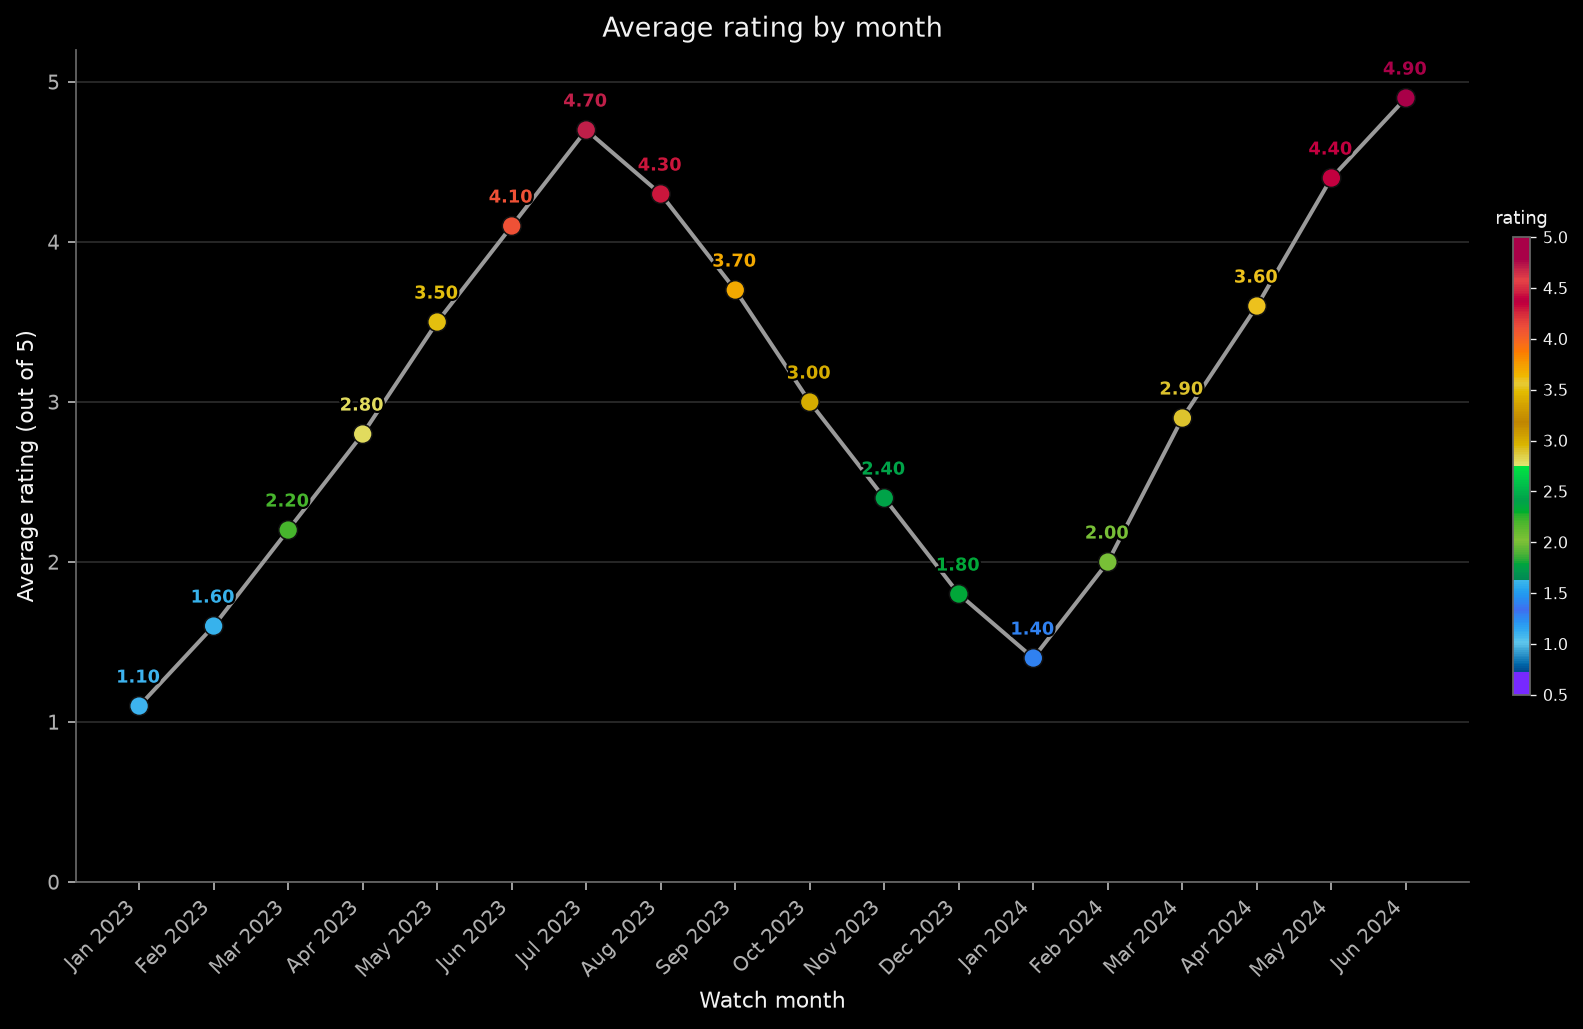
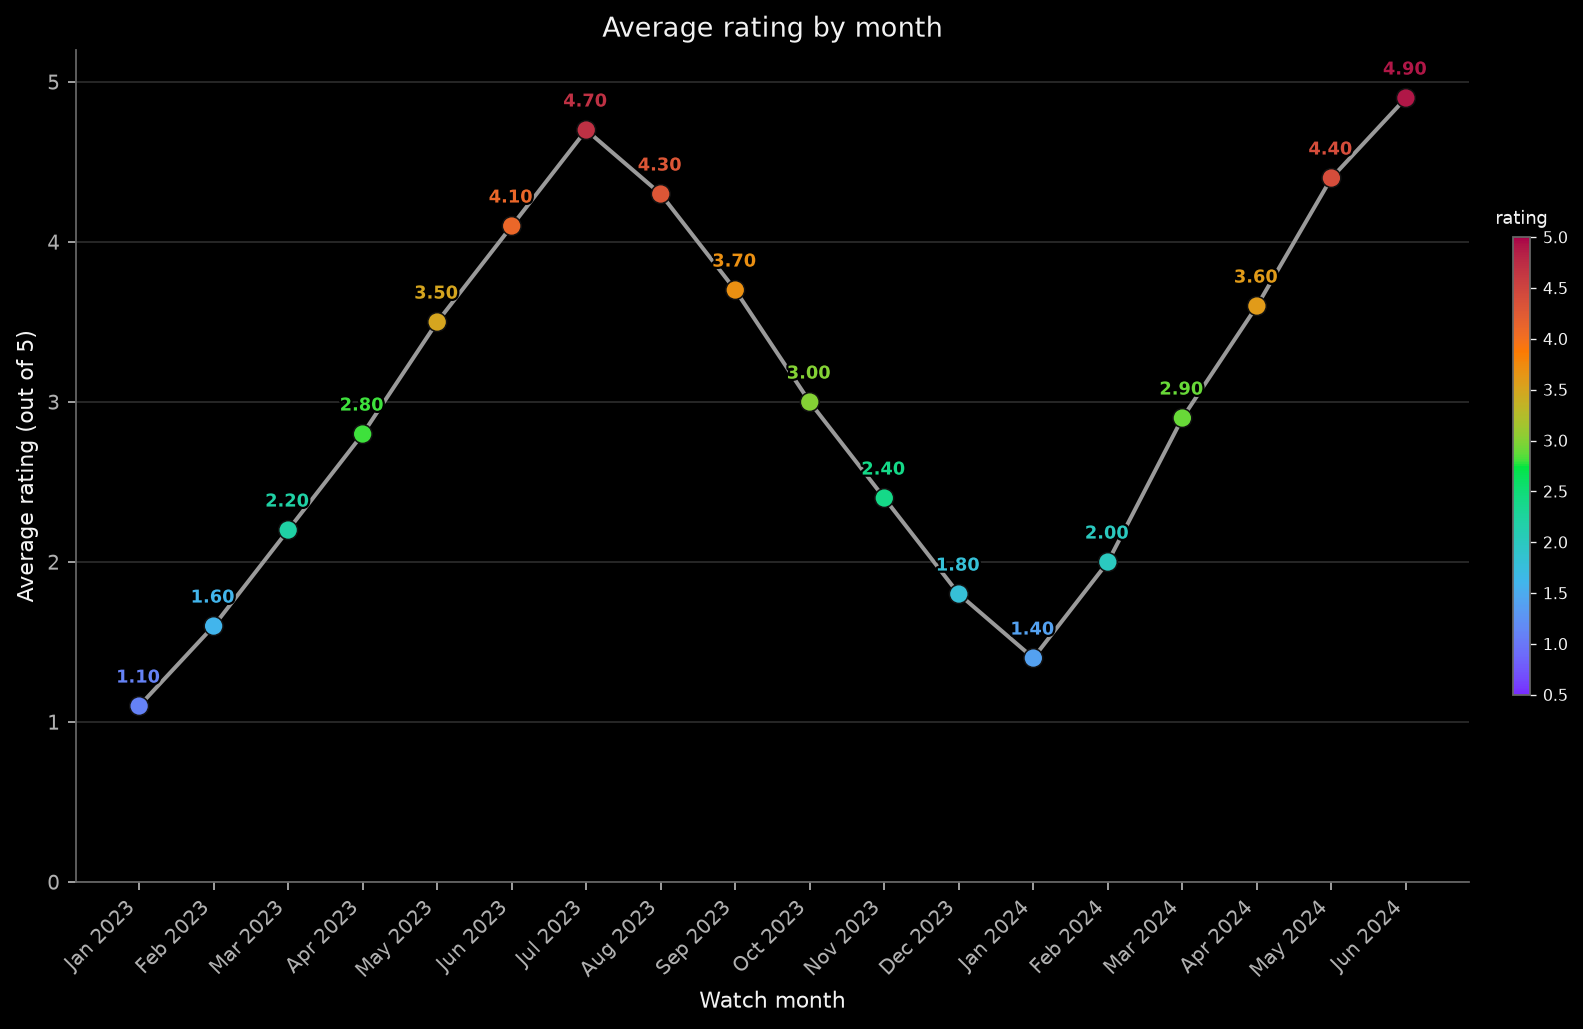
Replace the hue-band palette with a straight OKLab blend.
palette_color is piecewise-linear in OKLab between purple #7729FF, the three logo colors, and burgundy #A90048. README charts are regenerated on that blend. Discrete ranks stay as they are.

diff --git a/scripts/letterboxd_palette.py b/scripts/letterboxd_palette.py
@@ -7,15 +7,12 @@ fixed anchors (median sRGB of each non-overlapping interior):
 - 0.50 green ``#03E53E``
 - 0.75 orange ``#FC7A02``
 
-``palette_color`` is piecewise-linear in OKLab lightness, chroma, and hue.
-``t < 0.05`` stays the purple end (``#7729FF``) and ``t ≥ 0.95`` stays the
-burgundy end (``#A90048``), both the three-step chords past the logo colors.
-Between those holds, each hue family is its own polyline of ``(L, C, h)``
-stops: blues on ``[0.05, 0.25]`` ending at logo blue, greens on
-``(0.25, 0.50]`` ending at logo green, yellows on ``(0.50, 0.75]`` ending
-at logo orange, and a bent red polyline on ``(0.75, 0.95)`` that is not the
-straight orange–burgundy chord. The three logo knots return the measured
-bytes exactly.
+``palette_color`` is piecewise-linear in OKLab ``(L, a, b)`` between five
+knots: purple ``#7729FF`` at 0, the three logo colors at 0.25 / 0.50 / 0.75,
+and burgundy ``#A90048`` at 1. The ends are the three-step chords past the
+logo colors. There is no hold, hue band, or ease: each segment is the
+straight OKLab line, so lightness does not jump at a knot. The logo knots
+and the two ends return their bytes exactly.
 
 Ordered series (earliest or lowest first) bend quartile ranks with a
 piecewise quadratic so the logo knots stay put. See ``categorical_positions``.
@@ -56,37 +53,6 @@ LOGO_ORANGE_HEX = "#FC7A02"
 # (one step is Δt = 0.25, the old ends ``2B−G`` / ``2O−G``). Three steps
 # is where the gamut-mapped chord reads as purple and burgundy.
 OUTER_CHORD_STEPS = 3.0
-
-# Hue families. Purple is only below the first cut; burgundy is only from
-# the last cut up. The logo knots are the right-hand end of the blue, green,
-# and yellow polylines.
-PURPLE_BELOW = 0.05
-BURGUNDY_FROM = 0.95
-
-# Interior stops (fraction of the band, L, C, hue degrees). The band's final
-# stop is the logo color, or burgundy for the red band. Hue is OKLab
-# atan2(b, a), in degrees.
-_BLUE_STOPS = (
-    (0.00, 0.40, 0.14, -105.0),
-    (0.32, 0.78, 0.11, -135.0),
-    (0.68, 0.58, 0.20, -95.0),
-)
-_GREEN_STOPS = (
-    (0.00, 0.55, 0.20, 158.0),
-    (0.35, 0.74, 0.18, 132.0),
-    (0.70, 0.62, 0.22, 150.0),
-)
-_YELLOW_STOPS = (
-    (0.00, 0.90, 0.14, 110.0),
-    (0.38, 0.66, 0.19, 78.0),
-    (0.72, 0.84, 0.16, 98.0),
-)
-# Detours off the orange→burgundy chord, so the reds are not one ramp.
-_RED_STOPS = (
-    (0.28, 0.64, 0.20, 30.0),
-    (0.55, 0.50, 0.21, 14.0),
-    (0.78, 0.62, 0.20, 24.0),
-)
 
 # Björn Ottosson, OKLab (https://bottosson.github.io/posts/oklab/).
 _M1 = (
@@ -197,58 +163,6 @@ def _chord_end(
     return tuple(anchor[i] + steps * (anchor[i] - green[i]) for i in range(3))
 
 
-def _polar(lab: tuple[float, float, float]) -> tuple[float, float, float]:
-    lightness, a, b = lab
-    return (lightness, math.hypot(a, b), math.atan2(b, a))
-
-
-def _srgb_from_lch(lightness: float, chroma: float, hue: float) -> tuple[float, float, float]:
-    return oklab_to_srgb(lightness, chroma * math.cos(hue), chroma * math.sin(hue))
-
-
-def _mix_lch(
-    left: tuple[float, float, float],
-    right: tuple[float, float, float],
-    u: float,
-) -> tuple[float, float, float]:
-    """Straight line in OKLab L, C, and hue (hue in radians, not wrapped)."""
-    return _srgb_from_lch(
-        left[0] + u * (right[0] - left[0]),
-        left[1] + u * (right[1] - left[1]),
-        left[2] + u * (right[2] - left[2]),
-    )
-
-
-def _band_color(
-    stops: tuple[tuple[float, float, float, float], ...],
-    end: tuple[float, float, float],
-    u: float,
-    start: tuple[float, float, float] | None = None,
-) -> tuple[float, float, float]:
-    """Polyline through ``stops`` (fraction, L, C, hue degrees), ending at ``end``.
-
-    ``start`` replaces the first stop's LCh when the band begins on a logo
-    color (the red band starts at orange). Other bands pass ``start=None``
-    and use the first stop as written.
-    """
-    points: list[tuple[float, tuple[float, float, float]]] = []
-    if start is not None:
-        points.append((0.0, start))
-    for fraction, lightness, chroma, hue_deg in stops:
-        if start is not None and fraction <= 0.0:
-            continue
-        points.append((fraction, (lightness, chroma, math.radians(hue_deg))))
-    points.append((1.0, end))
-    if u <= points[0][0]:
-        return _mix_lch(points[0][1], points[0][1], 0.0)
-    for (u0, left), (u1, right) in zip(points, points[1:]):
-        if u0 <= u <= u1:
-            span = u1 - u0
-            local = 0.0 if span == 0.0 else (u - u0) / span
-            return _mix_lch(left, right, local)
-    return _mix_lch(points[-1][1], points[-1][1], 0.0)
-
-
 _STOPS: tuple | None = None
 
 
@@ -279,12 +193,9 @@ def _palette_stops():
 def palette_color(t: float) -> tuple[float, float, float, float]:
     """RGBA in 0–1 for position t on the shared palette.
 
-    Hue families, piecewise-linear in OKLab lightness, chroma, and hue.
-    ``t < PURPLE_BELOW`` is the purple end and ``t ≥ BURGUNDY_FROM`` is the
-    burgundy end. Blues, greens, and yellows are polylines that finish on
-    the logo knots; reds bend through ``_RED_STOPS`` instead of the straight
-    chord from orange to burgundy. t is clamped to [0, 1]. The logo knots
-    return the measured bytes exactly.
+    Piecewise-linear in OKLab ``(L, a, b)`` between the five knots from
+    ``_palette_stops``: purple, logo blue, logo green, logo orange, burgundy.
+    t is clamped to [0, 1]. A knot returns that knot's bytes exactly.
     """
     try:
         position = float(t)
@@ -295,32 +206,17 @@ def palette_color(t: float) -> tuple[float, float, float, float]:
     elif position > 1.0:
         position = 1.0
     stops = _palette_stops()
-    purple = stops[0][1]
-    blue_rgb, blue_lab = stops[1][1], stops[1][2]
-    green_rgb, green_lab = stops[2][1], stops[2][2]
-    orange_rgb, orange_lab = stops[3][1], stops[3][2]
-    burgundy = stops[4][1]
-    burgundy_lab = stops[4][2]
-    if position < PURPLE_BELOW:
-        return _rgba_bytes(purple)
-    if position >= BURGUNDY_FROM:
-        return _rgba_bytes(burgundy)
-    for stop_t, rgb in ((0.25, blue_rgb), (0.5, green_rgb), (0.75, orange_rgb)):
+    for stop_t, rgb, _lab in stops:
         if abs(position - stop_t) <= 1e-12:
             return _rgba_bytes(rgb)
-    if position <= 0.25:
-        u = (position - PURPLE_BELOW) / (0.25 - PURPLE_BELOW)
-        rgb = _band_color(_BLUE_STOPS, _polar(blue_lab), u)
-    elif position <= 0.5:
-        u = (position - 0.25) / 0.25
-        rgb = _band_color(_GREEN_STOPS, _polar(green_lab), u)
-    elif position <= 0.75:
-        u = (position - 0.5) / 0.25
-        rgb = _band_color(_YELLOW_STOPS, _polar(orange_lab), u)
-    else:
-        u = (position - 0.75) / (BURGUNDY_FROM - 0.75)
-        rgb = _band_color(_RED_STOPS, _polar(burgundy_lab), u, start=_polar(orange_lab))
-    return (rgb[0], rgb[1], rgb[2], 1.0)
+    for (t0, _rgb0, lab0), (t1, _rgb1, lab1) in zip(stops, stops[1:]):
+        if t0 <= position <= t1:
+            span = t1 - t0
+            u = 0.0 if span == 0.0 else (position - t0) / span
+            mixed = tuple(lab0[i] + u * (lab1[i] - lab0[i]) for i in range(3))
+            red, green, blue = oklab_to_srgb(*mixed)
+            return (red, green, blue, 1.0)
+    return _rgba_bytes(stops[-1][1])
 
 
 def palette_rgb(t: float) -> tuple[int, int, int]:
@@ -498,7 +394,7 @@ def rating_color(
 ) -> tuple:
     """Map a Letterboxd rating onto the full 0–1 palette.
 
-    0.5 → t = 0 (blue-violet) and 5 → t = 1 (red). The logo anchors sit
+    0.5 → t = 0 (purple) and 5 → t = 1 (burgundy). The logo anchors sit
     inside that range at the same 0.25 / 0.50 / 0.75 positions.
     """
     return palette_color(_rating_t(avg, vmin, vmax))

diff --git a/scripts/test_letterboxd_palette.py b/scripts/test_letterboxd_palette.py
@@ -16,9 +16,7 @@ from letterboxd_palette import (
     bend_rank,
     categorical_colors,
     categorical_positions,
-    BURGUNDY_FROM,
     OUTER_CHORD_STEPS,
-    PURPLE_BELOW,
     oklab_to_srgb,
     palette_color,
     palette_hex,
@@ -68,46 +66,23 @@ def _chord(anchor, green, steps: float):
     return tuple(anchor[i] + steps * (anchor[i] - green[i]) for i in range(3))
 
 
-def _reads_blue(rgb: tuple[int, int, int]) -> bool:
-    red, green, blue = rgb
-    return blue > red and blue > green and blue - red > 40
-
-
-def _reads_green(rgb: tuple[int, int, int]) -> bool:
-    red, green, blue = rgb
-    return green > red and green > blue and green - red > 30
-
-
-def _reads_yellow(rgb: tuple[int, int, int]) -> bool:
-    red, green, blue = rgb
-    return red > 160 and green > 120 and blue < 90 and green > red * 0.55
-
-
-def _reads_red(rgb: tuple[int, int, int]) -> bool:
-    red, green, blue = rgb
-    return red > green + 60 and red > blue and green < 120
-
-
 def test_oklab_segments_hit_anchors_and_extrapolated_ends():
-    """Ends are still the three-step logo chords. Hue families fill the middle."""
+    """Five knots, straight OKLab lines between them. No holds or bends."""
     blue = _lab(LOGO_BLUE_RGB)
     green = _lab(LOGO_GREEN_RGB)
     orange = _lab(LOGO_ORANGE_RGB)
     assert OUTER_CHORD_STEPS == 3.0
-    assert PURPLE_BELOW == 0.05 and BURGUNDY_FROM == 0.95
     end0 = _chord(blue, green, OUTER_CHORD_STEPS)
     end1 = _chord(orange, green, OUTER_CHORD_STEPS)
-    assert palette_rgb(0.0) == _quantize(oklab_to_srgb(*end0))
-    assert palette_rgb(1.0) == _quantize(oklab_to_srgb(*end1))
+    assert palette_rgb(0.0) == _quantize(oklab_to_srgb(*end0)) == (119, 41, 255)
+    assert palette_rgb(1.0) == _quantize(oklab_to_srgb(*end1)) == (169, 0, 72)
     one_low = _quantize(oklab_to_srgb(*_chord(blue, green, 1.0)))
     one_high = _quantize(oklab_to_srgb(*_chord(orange, green, 1.0)))
     assert one_low == (125, 133, 255) and palette_hex(0.0) == "#7729FF"
     assert one_high == (255, 14, 77) and palette_hex(1.0) == "#A90048"
-
-    # Purple hold below 0.05, burgundy hold from 0.95.
-    assert palette_rgb(0.0) == palette_rgb(0.049) == (119, 41, 255)
-    assert palette_rgb(0.95) == palette_rgb(1.0) == (169, 0, 72)
-    assert palette_rgb(PURPLE_BELOW) != palette_rgb(0.0)
+    # The ends are not held flat: a step in from either end already moves.
+    assert palette_rgb(0.049) != palette_rgb(0.0)
+    assert palette_rgb(0.95) != palette_rgb(1.0)
 
     low = palette_rgb(0.0)
     high = palette_rgb(1.0)
@@ -123,30 +98,30 @@ def test_oklab_segments_hit_anchors_and_extrapolated_ends():
     assert _contrast_on_black(LOGO_ORANGE_RGB) >= 4.5
 
 
-def test_hue_families_and_distinct_shades():
-    """One sample inside each band reads as that family, and the shades differ."""
-    assert _reads_blue(palette_rgb(0.15))
-    assert _reads_green(palette_rgb(0.40))
-    assert _reads_yellow(palette_rgb(0.62))
-    assert _reads_red(palette_rgb(0.85))
+def test_piecewise_linear_oklab_has_no_lightness_jump():
+    """Each segment is the straight OKLab chord, including at the knots."""
+    knots = (0.0, 0.25, 0.5, 0.75, 1.0)
+    for t0, t1 in zip(knots, knots[1:]):
+        lab0 = _lab(palette_rgb(t0))
+        lab1 = _lab(palette_rgb(t1))
+        for fraction in (0.2, 0.5, 0.8):
+            position = t0 + fraction * (t1 - t0)
+            expected = oklab_to_srgb(*(lab0[i] + fraction * (lab1[i] - lab0[i]) for i in range(3)))
+            got = palette_color(position)
+            assert all(abs(got[i] - expected[i]) < 1e-9 for i in range(3))
+        # Lightness on the segment is the straight line between the knots.
+        left_l = lab0[0]
+        right_l = lab1[0]
+        mid_l = srgb_to_oklab(*palette_color((t0 + t1) / 2)[:3])[0]
+        assert abs(mid_l - (left_l + right_l) / 2) < 1e-6
 
-    for samples in ((0.05, 0.114, 0.186), (0.28, 0.3375, 0.48), (0.51, 0.60, 0.74), (0.78, 0.86, 0.945)):
-        colors = [palette_rgb(t) for t in samples]
-        distances = [
-            _oklab_distance(colors[i], colors[j])
-            for i in range(len(colors))
-            for j in range(i + 1, len(colors))
-        ]
-        # The polyline is not flat: the spread inside the band is visible.
-        assert max(distances) > 0.12
-
-    # Reds are not the straight OKLab chord from orange to burgundy.
-    orange = _lab(LOGO_ORANGE_RGB)
-    burgundy = _lab(palette_rgb(1.0))
-    chord = tuple(orange[i] + 0.5 * (burgundy[i] - orange[i]) for i in range(3))
-    got = _lab(palette_rgb(0.85))
-    straight = sum((got[i] - chord[i]) ** 2 for i in range(3)) ** 0.5
-    assert straight > 0.04
+    # Adjacent samples stay close. A band edge would jump by much more.
+    previous = _lab(palette_rgb(0.0))
+    for step in range(1, 201):
+        current = _lab(palette_rgb(step / 200))
+        assert abs(current[0] - previous[0]) < 0.03
+        assert _oklab_distance(palette_rgb((step - 1) / 200), palette_rgb(step / 200)) < 0.08
+        previous = current
 
 
 def _oklab_distance(a: tuple[int, int, int], b: tuple[int, int, int]) -> float:
@@ -227,21 +202,19 @@ def test_rating_scale_uses_full_range_and_same_anchors():
     assert palette_rgb_from(rating_color(3.875)) == LOGO_ORANGE_RGB  # t = 0.75
     assert palette_rgb_from(rating_color(RATING_VMIN)) != LOGO_BLUE_RGB
 
-    # Bands on the rating scale: ~1.2 blue, ~2.3 green, ~3.3 yellow, ~4.3 red.
-    # Burgundy is only the top hold (about 4.8–5). ~1.6 stays on logo blue.
-    assert _reads_blue(palette_rgb_from(rating_color(1.2)))
-    assert _reads_green(palette_rgb_from(rating_color(2.3)))
-    assert _reads_yellow(palette_rgb_from(rating_color(3.3)))
-    assert _reads_red(palette_rgb_from(rating_color(4.3)))
-    assert all(abs(palette_rgb_from(rating_color(1.6))[i] - LOGO_BLUE_RGB[i]) <= 12 for i in range(3))
-    assert palette_rgb_from(rating_color(4.8)) == palette_rgb(1.0)
-    assert palette_rgb_from(rating_color(0.7)) == palette_rgb(0.0)
+    # The scale is the same straight blend: 0.7 is just in from purple,
+    # 1.6 is just short of logo blue, and 4.8 is just short of burgundy.
+    assert palette_rgb_from(rating_color(0.7)) != palette_rgb(0.0)
+    assert palette_rgb_from(rating_color(1.6)) != LOGO_BLUE_RGB
+    assert palette_rgb_from(rating_color(4.8)) != palette_rgb(1.0)
+    assert _oklab_distance(palette_rgb_from(rating_color(1.6)), LOGO_BLUE_RGB) < 0.05
+    assert _oklab_distance(palette_rgb_from(rating_color(4.8)), palette_rgb(1.0)) < 0.08
 
 
 if __name__ == "__main__":
     test_logo_anchor_constants_are_the_measured_bytes()
     test_oklab_segments_hit_anchors_and_extrapolated_ends()
-    test_hue_families_and_distinct_shades()
+    test_piecewise_linear_oklab_has_no_lightness_jump()
     test_discrete_ranks_n1_n2_n3_n7_and_a_larger_n()
     test_rating_scale_uses_full_range_and_same_anchors()
     print("ok")

diff --git a/scripts/test_letterboxd_top_charts.py b/scripts/test_letterboxd_top_charts.py
@@ -480,8 +480,7 @@ def test_count_avg_text_style_colors_mean_only():
     assert _rgba(dash["color"]) == _rgba(FG)
     assert low["path_effects"] and high["path_effects"]
     assert dash["path_effects"] is None
-    # 1.94 sits in the green band; 4.80 is the burgundy hold.
-    assert low["color"][1] > low["color"][0] and low["color"][1] > low["color"][2]
+    # 1.94 is between logo blue and green; 4.80 is near burgundy, so redder.
     assert high["color"][0] > high["color"][2]
     assert high["color"][0] > low["color"][0]
 

diff --git a/README.md b/README.md
@@ -14,7 +14,7 @@ You send the ZIP from Letterboxd → Settings → Import & Export → Export You
 
 ![Bar chart of film watches per year, each bar labelled with its count and a bold colored average rating](docs/images/watches-by-year.png)
 
-*Watches per year, with the count and the bold colored average rating above each bar. These five years run blue, green, green, yellow, red.*
+*Watches per year, with the count and the bold colored average rating above each bar. These five years run blue-violet, teal, green, yellow, and red.*
 
 ![Weekday and month bar charts stacked by watch year](docs/images/weekday-month-by-year.png)
 
@@ -28,9 +28,9 @@ You send the ZIP from Letterboxd → Settings → Import & Export → Export You
 
 *Directors with the lowest average rating. A bar too short for 15 letters shows the first 15 and an ellipsis.*
 
-![Twenty directors from a 4.80 average down to 1.00, colored from burgundy through red, yellow, green, and blue](docs/images/directors-higher-rating-20.png)
+![Twenty directors from a 4.80 average down to 1.00, on one smooth scale from burgundy to purple](docs/images/directors-higher-rating-20.png)
 
-*A top 20 across the rating scale: blues near 1–1.6, greens through 2.75, yellows up to logo orange at 3.9, reds above that, and burgundy at 4.8. The three shortest bars show 15 letters and an ellipsis past the bar, with the same gap before the rating as after a normal bar.*
+*A top 20 across the rating scale: one smooth blend from burgundy at the top, through logo orange, green, and blue, to purple at 1.0. The three shortest bars show 15 letters and an ellipsis past the bar, with the same gap before the rating as after a normal bar.*
 
 ![Line chart of average rating by month, with a colored dot on each month](docs/images/average-rating-by-month.png)
 
@@ -66,7 +66,7 @@ Dates are month before year. `2021-06.2022` means 2021-01-01 through 2022-06-30.
 
 The report is a set of PNG charts in the chat: calendar (watches, pace, weekdays), extra stats, and TMDB tops for genres, countries of origin, directors, actors, original language, and studios. A rating bar ends with a bold colored average and a regular parenthetical count. A name stays inside its bar and is shortened with an ellipsis only when it does not fit. A bar too short for 15 characters shows the first 15 characters and an ellipsis, running past the end of the bar.
 
-Every chart uses one palette. The anchors are the three logo circles, measured from the non-overlapping interior of each circle: blue `#3FB7EB` at 0.25, green `#03E53E` at 0.50, and orange `#FC7A02` at 0.75. The blend is piecewise-linear in OKLab lightness, chroma, and hue. Below 0.05 it stays purple (`#7729FF`). From 0.05 to 0.25 it runs through blue shades and lands on logo blue; then green shades through 0.50; then yellow shades through logo orange at 0.75; then a bent path of distinct reds through 0.95, not one ramp from orange to the end; and from 0.95 on, burgundy (`#A90048`). A rating uses the whole range: 0.5 maps to 0 and 5 maps to 1. An ordered series (watch years, ranked genres), earliest or lowest first, starts from rank `q = k / (N + 1)` and bends that rank with a quadratic inside each quarter: toward 0 below blue, toward green between blue and orange, and toward 1 above orange. The knots stay put, so three values are blue, green, and orange, and seven values put those colors on the 2nd, 4th, and 6th (`0.25`, `0.5`, `0.75`), with the 1st at `0.0625` and the 7th at `0.9375`. Two values are blue and orange. One value is green.
+Every chart uses one palette. The anchors are the three logo circles, measured from the non-overlapping interior of each circle: blue `#3FB7EB` at 0.25, green `#03E53E` at 0.50, and orange `#FC7A02` at 0.75. The blend is a straight line in OKLab between five knots: purple `#7729FF` at 0, those three logo colors, and burgundy `#A90048` at 1. A rating uses the whole range: 0.5 maps to 0 and 5 maps to 1. An ordered series (watch years, ranked genres), earliest or lowest first, starts from rank `q = k / (N + 1)` and bends that rank with a quadratic inside each quarter: toward 0 below blue, toward green between blue and orange, and toward 1 above orange. The knots stay put, so three values are blue, green, and orange, and seven values put those colors on the 2nd, 4th, and 6th (`0.25`, `0.5`, `0.75`), with the 1st at `0.0625` and the 7th at `0.9375`. Two values are blue and orange. One value is green.
 
 Example title: Studios — lower rating (at least 3 rated films).
 

diff --git a/AGENTS.md b/AGENTS.md
@@ -75,7 +75,7 @@ Logo anchors are the median sRGB of each circle's non-overlapping interior (12px
 - 0.50 green `#03E53E` = RGB (3, 229, 62)
 - 0.75 orange `#FC7A02` = RGB (252, 122, 2)
 
-`palette_color(t)` is piecewise-linear in OKLab lightness, chroma, and hue (`h = atan2(b, a)`). `t = 0` and `t = 1` are still the three-step chords (`B + 3(B−G)`, `O + 3(O−G)`, `OUTER_CHORD_STEPS`): `#7729FF` purple, `#A90048` burgundy. Purple is only `t < 0.05`. Burgundy is only `t ≥ 0.95`. Between those holds, each family is a polyline of `(L, C, h)` stops in `letterboxd_palette.py`: blues on `[0.05, 0.25]` ending at logo blue, greens on `(0.25, 0.50]` ending at logo green, yellows on `(0.50, 0.75]` ending at logo orange, and reds on `(0.75, 0.95)` through `_RED_STOPS` (not the straight orange–burgundy chord). Ratings use `t = (rating − 0.5) / 4.5`, so 1.625 is logo blue, 2.75 is green, and 3.875 is logo orange.
+`palette_color(t)` is piecewise-linear in OKLab `(L, a, b)` between five knots. `t = 0` and `t = 1` are the three-step chords (`B + 3(B−G)`, `O + 3(O−G)`, `OUTER_CHORD_STEPS`): `#7729FF` purple, `#A90048` burgundy. The other knots are the logo colors. Each segment is that straight line. No hue bands, holds, or easing. Ratings use `t = (rating − 0.5) / 4.5`, so 1.625 is logo blue, 2.75 is green, and 3.875 is logo orange.
 
 Discrete ordered series, earliest or lowest first. Raw rank `q = (i+1)/(N+1)`, then `bend_rank`:
 
